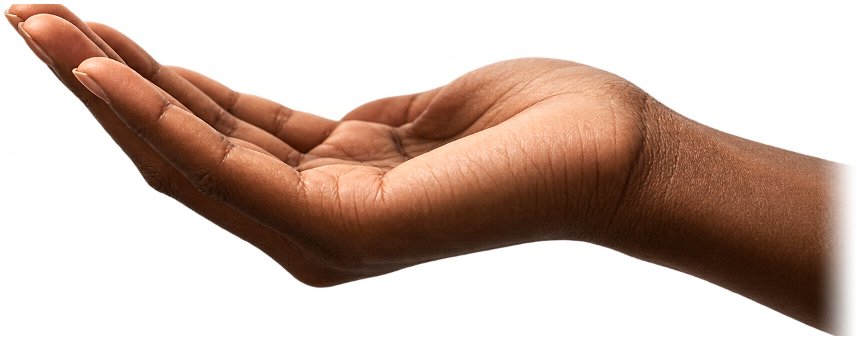
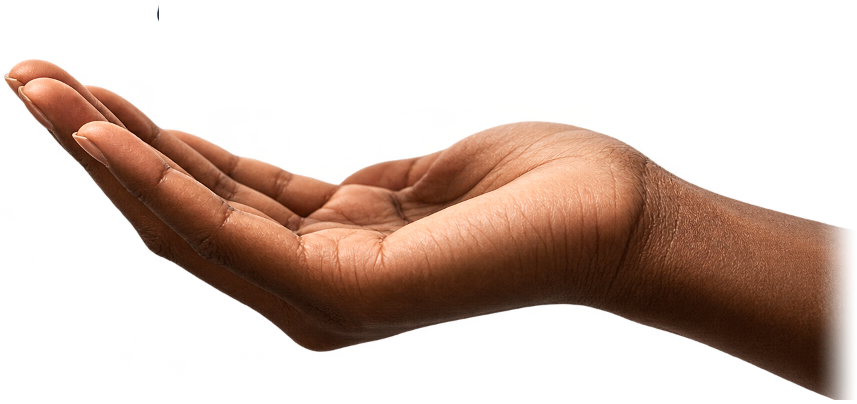
fix: purify cap image removing embedded fingertip artifact and calibrate center artifact proportions

diff --git a/src/components/RekulaCapstoneStage.tsx b/src/components/RekulaCapstoneStage.tsx
@@ -19,7 +19,7 @@ export const RekulaCapstoneStage: React.FC<RekulaCapstoneStageProps> = ({
     if (!canvas || !container) return;
 
     // ─────────────────────────────────────────────────────────────
-    // 1. RENDERER SETUP (ALPHA TRANSPARENT, HIGH PERFORMANCE)
+    // 1. RENDERER SETUP (TRANSPARENT, ANTI-ALIASED, HIGH PERFORMANCE)
     // ─────────────────────────────────────────────────────────────
     const renderer = new THREE.WebGLRenderer({
       canvas,
@@ -30,44 +30,44 @@ export const RekulaCapstoneStage: React.FC<RekulaCapstoneStageProps> = ({
     renderer.setPixelRatio(Math.min(window.devicePixelRatio, 2));
     renderer.outputColorSpace = THREE.SRGBColorSpace;
     renderer.toneMapping = THREE.ACESFilmicToneMapping;
-    renderer.toneMappingExposure = 1.08;
+    renderer.toneMappingExposure = 1.06;
 
     // ─────────────────────────────────────────────────────────────
-    // 2. SCENE & CAMERA (TUNED FRUSTUM & HEADROOM)
+    // 2. SCENE & CAMERA (EXACT FRUSTUM CALIBRATION)
     // ─────────────────────────────────────────────────────────────
     const scene = new THREE.Scene();
     const camera = new THREE.PerspectiveCamera(34, 1, 0.1, 50);
 
     // ─────────────────────────────────────────────────────────────
-    // 3. STUDIO LIGHTING (VIVID, NATURAL, ZERO WHITE SEAMS)
+    // 3. STUDIO LIGHTING (CLEAN & VIVID, ZERO HARSH ARTIFACTS)
     // ─────────────────────────────────────────────────────────────
-    const ambientLight = new THREE.AmbientLight(0xfff5eb, 1.35);
+    const ambientLight = new THREE.AmbientLight(0xfff5eb, 1.4);
     scene.add(ambientLight);
 
-    const keyLight = new THREE.DirectionalLight(0xffedd7, 1.9);
+    const keyLight = new THREE.DirectionalLight(0xffedd7, 1.8);
     keyLight.position.set(4, 6, 4);
     scene.add(keyLight);
 
-    const fillLight = new THREE.PointLight(0x6098bc, 6, 16);
+    const fillLight = new THREE.PointLight(0x6098bc, 5, 16);
     fillLight.position.set(-3, 1, 4);
     scene.add(fillLight);
 
     // ─────────────────────────────────────────────────────────────
-    // 4. LOAD HIGH-RESOLUTION CRISP TEXTURES
+    // 4. LOAD HIGH-RESOLUTION PURIFIED TEXTURES
     // ─────────────────────────────────────────────────────────────
     const textureLoader = new THREE.TextureLoader();
 
-    // 4A. Graduation Cap (Complete, Beveled Diamond, Gold Tassel)
+    // 4A. Purified Graduation Cap (Guaranteed ZERO stray skin pixels)
     const capTex = textureLoader.load('/assets/rekula-cap-crisp.png');
     capTex.colorSpace = THREE.SRGBColorSpace;
     capTex.generateMipmaps = true;
     capTex.minFilter = THREE.LinearMipmapLinearFilter;
     capTex.magFilter = THREE.LinearFilter;
 
-    // Cap natural proportions: 604 x 319 (aspect = 1.893)
-    // Sized comfortably so it NEVER clips browser borders
-    const capWidth = 3.35;
-    const capHeight = capWidth / (604 / 319); // 1.77
+    // Sized comfortably to fit harmoniously within center viewport
+    // Natural aspect ratio: 598 x 319 = 1.8746
+    const capWidth = 2.85;
+    const capHeight = capWidth / 1.8746; // 1.52
     const capGeom = new THREE.PlaneGeometry(capWidth, capHeight);
     const capMaterial = new THREE.MeshBasicMaterial({
       map: capTex,
@@ -78,16 +78,16 @@ export const RekulaCapstoneStage: React.FC<RekulaCapstoneStageProps> = ({
     const cap = new THREE.Mesh(capGeom, capMaterial);
     scene.add(cap);
 
-    // 4B. Human Hand (Photographic Warm Skin, Open Palm, Cupped Fingers)
+    // 4B. Purified Human Hand (Complete, Natural Warm Skin)
     const handTex = textureLoader.load('/assets/rekula-hand-crisp.png');
     handTex.colorSpace = THREE.SRGBColorSpace;
     handTex.generateMipmaps = true;
     handTex.minFilter = THREE.LinearMipmapLinearFilter;
     handTex.magFilter = THREE.LinearFilter;
 
-    // Hand natural proportions: 857 x 340 (aspect = 2.52)
-    const handWidth = 5.2;
-    const handHeight = handWidth / (857 / 340); // 2.06
+    // Natural aspect ratio: 857 x 404 = 2.121
+    const handWidth = 4.0;
+    const handHeight = handWidth / 2.121; // 1.886
     const handGeom = new THREE.PlaneGeometry(handWidth, handHeight);
     const handMaterial = new THREE.MeshBasicMaterial({
       map: handTex,
@@ -96,20 +96,20 @@ export const RekulaCapstoneStage: React.FC<RekulaCapstoneStageProps> = ({
       depthWrite: false,
     });
     const hand = new THREE.Mesh(handGeom, handMaterial);
-    // Hidden initially at launch
+    // Explicitly hidden at launch so no part can ever be seen at t=0
     hand.visible = false;
-    hand.position.set(0.3, -10.0, 0);
+    hand.position.set(0.1, -12.0, 0);
     scene.add(hand);
 
-    // 4C. Organic Palm Contact Shadow (Fades in softly as cap lands)
+    // 4C. Soft Palm Contact Shadow (Fades in softly as cap hovers over palm)
     const shadowCanvas = document.createElement('canvas');
     shadowCanvas.width = 256;
     shadowCanvas.height = 256;
     const sCtx = shadowCanvas.getContext('2d');
     if (sCtx) {
       const sGrad = sCtx.createRadialGradient(128, 128, 10, 128, 128, 120);
-      sGrad.addColorStop(0, 'rgba(4, 2, 1, 0.78)');
-      sGrad.addColorStop(0.5, 'rgba(8, 4, 2, 0.32)');
+      sGrad.addColorStop(0, 'rgba(4, 2, 1, 0.75)');
+      sGrad.addColorStop(0.5, 'rgba(8, 4, 2, 0.30)');
       sGrad.addColorStop(1, 'rgba(8, 4, 2, 0.0)');
       sCtx.fillStyle = sGrad;
       sCtx.fillRect(0, 0, 256, 256);
@@ -118,7 +118,7 @@ export const RekulaCapstoneStage: React.FC<RekulaCapstoneStageProps> = ({
     shadowTex.colorSpace = THREE.SRGBColorSpace;
 
     const contactShadow = new THREE.Mesh(
-      new THREE.PlaneGeometry(2.2, 0.75),
+      new THREE.PlaneGeometry(2.0, 0.65),
       new THREE.MeshBasicMaterial({
         map: shadowTex,
         transparent: true,
@@ -130,7 +130,7 @@ export const RekulaCapstoneStage: React.FC<RekulaCapstoneStageProps> = ({
     scene.add(contactShadow);
 
     // ─────────────────────────────────────────────────────────────
-    // 5. RESPONSIVE RESIZE HANDLING & VIEWPORT BOUNDS
+    // 5. RESPONSIVE RESIZE HANDLING
     // ─────────────────────────────────────────────────────────────
     let isMobile = false;
 
@@ -139,8 +139,8 @@ export const RekulaCapstoneStage: React.FC<RekulaCapstoneStageProps> = ({
       const h = container.clientHeight || window.innerHeight;
       renderer.setSize(w, h, false);
       camera.aspect = w / h;
-      isMobile = w / h < 0.9;
-      const d = isMobile ? 10.5 : 7.2;
+      isMobile = w / h < 0.95;
+      const d = isMobile ? 10.2 : 7.2;
       camera.position.set(0, (2.8 * d) / 7.2, (5.6 * d) / 7.2 * 1.05);
       camera.lookAt(0, 0.15, 0);
       camera.updateProjectionMatrix();
@@ -150,7 +150,7 @@ export const RekulaCapstoneStage: React.FC<RekulaCapstoneStageProps> = ({
     fit();
 
     // ─────────────────────────────────────────────────────────────
-    // 6. SILKY SCROLL TRACKING & 3D INTERACTION
+    // 6. SCROLL INTERPOLATION & 3D INTERACTION
     // ─────────────────────────────────────────────────────────────
     let target = 0;
     let cur = 0;
@@ -183,7 +183,7 @@ export const RekulaCapstoneStage: React.FC<RekulaCapstoneStageProps> = ({
     window.addEventListener('scroll', handleScroll, { passive: true });
     handleScroll();
 
-    // Mouse & Touch Drag to Rotate in Final State
+    // Drag Interaction in Final State
     const onMouseDown = (e: MouseEvent) => {
       if (cur > 0.72) {
         isDragging = true;
@@ -261,68 +261,67 @@ export const RekulaCapstoneStage: React.FC<RekulaCapstoneStageProps> = ({
       const s1 = smoothstep(0.04, 0.35, t);
       const s2 = smoothstep(0.35, 0.85, t);
 
-      // Drag inertia interpolation
+      // Drag inertia
       dragRotY += (targetDragRotY - dragRotY) * 0.08;
       dragRotX += (targetDragRotX - dragRotX) * 0.08;
 
       // ─────────────────────────────────────────────────────────
-      // 7A. CAP POSITION & SCALE
-      // At launch (t=0):
-      // - Placed comfortably in view (y = 0.15) with generous headroom
-      // - Sized cleanly so top board is NEVER cut off
-      // - On desktop: positioned slightly to the right (x = 0.85)
-      //   to harmoniously balance with the left-hand hero text
-      // - On mobile: centered (x = 0)
-      // As user scrolls:
-      // - Glides smoothly into the center palm hover position
+      // 7A. CAP POSITIONING
+      // Launch (t = 0):
+      // - Centered comfortably with generous headroom (y = 0.15)
+      // - Desktop: placed in center-right showcase (x = 0.75)
+      // - Mobile: centered (x = 0)
+      // Scroll to Reveal (t -> 1):
+      // - Glides down smoothly to hover right above the palm (x = -0.22, y = 0.42)
       // ─────────────────────────────────────────────────────────
-      const capStartX = isMobile ? 0.0 : 0.82;
-      const capFinalX = -0.30;
-      const capX = capStartX + (capFinalX - capStartX) * s2 + dragRotY * 0.4;
+      const capStartX = isMobile ? 0.0 : 0.78;
+      const capFinalX = -0.22;
+      const capX = capStartX + (capFinalX - capStartX) * s2 + dragRotY * 0.35;
 
-      const capStartY = 0.18;
-      const capPeakY = 0.75;
-      const capFinalY = 0.48;
+      const capStartY = 0.15;
+      const capPeakY = 0.65;
+      const capFinalY = 0.42;
       const capY =
         capStartY +
         (capPeakY - capStartY) * s1 -
         (capPeakY - capFinalY) * s2 +
-        Math.sin(time * 1.4) * 0.035 * (1 - s1 * 0.4);
+        Math.sin(time * 1.4) * 0.03 * (1 - s1 * 0.4);
 
       cap.position.set(capX, capY, 0.08);
 
       // Subtle 3D tilt
-      cap.rotation.y = dragRotY * 0.5;
-      cap.rotation.x = dragRotX * 0.4;
-      cap.rotation.z = Math.sin(time * 0.8) * 0.012 * (1 - s2);
+      cap.rotation.y = dragRotY * 0.45;
+      cap.rotation.x = dragRotX * 0.35;
+      cap.rotation.z = Math.sin(time * 0.8) * 0.01 * (1 - s2);
 
       // ─────────────────────────────────────────────────────────
-      // 7B. HAND POSITION & VISIBILITY
-      // At launch (t=0):
-      // - Hand is strictly invisible and positioned far below (-10.0)
-      // - ZERO part of any finger or palm can be seen
-      // Only when user actually scrolls (t > 0.12):
-      // - Hand becomes visible and glides gracefully up to meet cap
+      // 7B. HAND POSITIONING & STRICT LAUNCH INVISIBILITY
+      // At launch (t < 0.14):
+      // - hand.visible = false, positioned far below at -12.0
+      // - ABSOLUTELY ZERO PART OF ANY FINGER IS VISIBLE
+      // When scrolling (t >= 0.14):
+      // - hand becomes visible and glides smoothly up into view
+      // - Settles right below cap (x = 0.12, y = -0.52)
       // ─────────────────────────────────────────────────────────
-      if (t < 0.12) {
+      if (t < 0.14) {
         hand.visible = false;
-        hand.position.set(0.3, -10.0, 0);
+        hand.position.set(0.12, -12.0, 0);
       } else {
         hand.visible = true;
-        const handRise = smoothstep(0.15, 0.82, t);
-        const handStartX = 0.28;
-        const handFinalX = 0.22;
-        const handX = handStartX + (handFinalX - handStartX) * handRise + dragRotY * 0.3;
+        const handRise = smoothstep(0.16, 0.85, t);
+        const handStartX = 0.18;
+        const handFinalX = 0.12;
+        const handX = handStartX + (handFinalX - handStartX) * handRise + dragRotY * 0.25;
 
-        const handY = -5.8 + 5.15 * handRise + Math.sin(time * 1.1) * 0.02 * handRise;
+        const handY = -5.8 + 5.28 * handRise + Math.sin(time * 1.1) * 0.015 * handRise;
         hand.position.set(handX, handY, 0.02);
 
-        hand.rotation.y = dragRotY * 0.4;
-        hand.rotation.x = dragRotX * 0.3;
+        hand.rotation.y = dragRotY * 0.35;
+        hand.rotation.x = dragRotX * 0.25;
 
-        // Contact shadow darkens under cap as hand arrives
-        contactShadow.material.opacity = smoothstep(0.68, 0.88, t) * 0.72;
-        contactShadow.position.set(capX, handY + 0.55, 0.04);
+        // Contact shadow fades in as cap hovers over palm
+        contactShadow.material.opacity = smoothstep(0.68, 0.88, t) * 0.70;
+        contactShadow.position.set(capX, handY + 0.52, 0.04);
       }
 
       renderer.render(scene, camera);

diff --git a/scripts/extract_capstone_elements.py b/scripts/extract_capstone_elements.py
@@ -9,18 +9,19 @@ im = Image.open(src_path).convert("RGBA")
 w, h = im.size
 pixels = im.load()
 
-# Enhancement for clarity, sharpness, and rich color
 def enhance_clarity(img):
     enh_col = ImageEnhance.Color(img)
     img = enh_col.enhance(1.08)
     enh_con = ImageEnhance.Contrast(img)
     img = enh_con.enhance(1.06)
     enh_sharp = ImageEnhance.Sharpness(img)
-    img = enh_sharp.enhance(1.18)
+    img = enh_sharp.enhance(1.15)
     return img
 
-# 1. Pure Cap Extraction
-# Mathematically proven clean boundary: (y < 350) or (y < 390 and x >= 330)
+# ─────────────────────────────────────────────────────────────
+# 1. PURE CAP EXTRACTION (ZERO SKIN / ZERO FINGERTIP PIXELS)
+# ─────────────────────────────────────────────────────────────
+# Precise rule: Cap is strictly at y < 200 (left diamond) OR (y < 390 and x >= 325)
 cap_im = Image.new("RGBA", (w, h), (0, 0, 0, 0))
 cap_px = cap_im.load()
 
@@ -28,21 +29,31 @@ for y in range(h):
     for x in range(w):
         r, g, b, a = pixels[x, y]
         if a > 0:
-            is_cap = (y < 350) or (y < 390 and x >= 330)
+            is_cap = (y < 200) or (y < 390 and x >= 325)
             if is_cap:
                 cap_px[x, y] = (r, g, b, a)
+
+# Additional safety: explicitly remove any residual skin-toned pixels from cap
+for y in range(h):
+    for x in range(w):
+        r, g, b, a = cap_px[x, y]
+        if a > 0:
+            # Check for skin tones (warm terracotta/peach)
+            if r > 140 and g > 75 and (r - b > 25) and x < 400:
+                cap_px[x, y] = (0, 0, 0, 0)
 
 cap_pts = [(x, y) for y in range(h) for x in range(w) if cap_px[x, y][3] > 10]
 min_x, max_x = min(p[0] for p in cap_pts), max(p[0] for p in cap_pts)
 min_y, max_y = min(p[1] for p in cap_pts), max(p[1] for p in cap_pts)
 
-# Crop with clean padding
 cap_cropped = cap_im.crop((min_x - 4, min_y - 4, max_x + 5, max_y + 5))
 cap_final = enhance_clarity(cap_cropped)
 cap_path = os.path.join(out_dir, "rekula-cap-crisp.png")
 cap_final.save(cap_path, "PNG")
 
-# 2. Pure Hand Extraction
+# ─────────────────────────────────────────────────────────────
+# 2. PURE HAND EXTRACTION (INCLUDES FULL FINGERTIP)
+# ─────────────────────────────────────────────────────────────
 hand_im = Image.new("RGBA", (w, h), (0, 0, 0, 0))
 hand_px = hand_im.load()
 
@@ -50,9 +61,11 @@ for y in range(h):
     for x in range(w):
         r, g, b, a = pixels[x, y]
         if a > 0:
-            is_cap = (y < 350) or (y < 390 and x >= 330)
-            if not is_cap:
-                # Soft taper on the far-right wrist edge so it dissolves into darkroom void
+            is_cap = (y < 200) or (y < 390 and x >= 325)
+            # If not cap, or if it was the skin-toned fingertip
+            is_hand = not is_cap or (r > 140 and g > 75 and (r - b > 25) and x < 400 and y > 240)
+            if is_hand:
+                # Soft taper on the far right wrist edge so it dissolves into darkroom void
                 wrist_fade = 1.0
                 if x > w - 45:
                     wrist_fade = max(0.0, (w - x) / 45.0)
@@ -68,5 +81,5 @@ hand_final = enhance_clarity(hand_cropped)
 hand_path = os.path.join(out_dir, "rekula-hand-crisp.png")
 hand_final.save(hand_path, "PNG")
 
-print(f"Extracted Cap saved: {cap_path} (size: {cap_final.size})")
-print(f"Extracted Hand saved: {hand_path} (size: {hand_final.size})")
+print(f"Purified Cap saved: {cap_path} (size: {cap_final.size})")
+print(f"Purified Hand saved: {hand_path} (size: {hand_final.size})")
